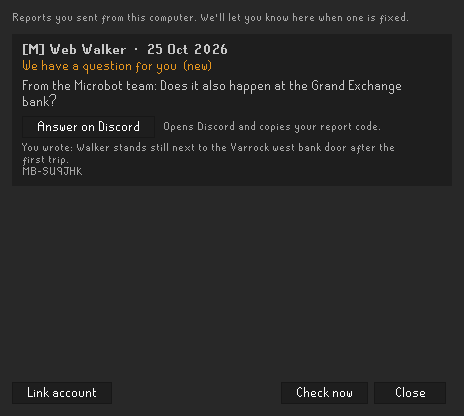
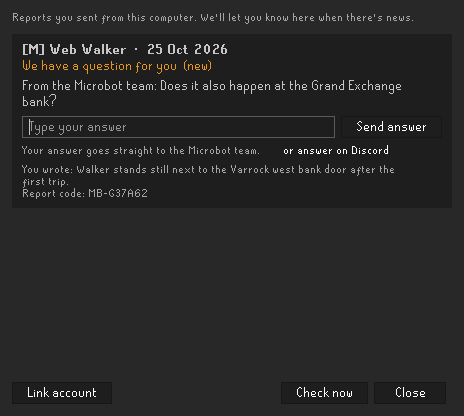
docs: fix 2.6.42 release notes screenshots and sent-data wording
Replace the My reports question and report form screenshots with
captures that match the shipped dialogs (answer field, Send answer,
"Microbot version and system details (always)"), using the same report
as the answered screenshot. Spell out the always-included system
details and say the GE Flipper tests were updated for the 2.6.41 client.

Claude-Session: https://claude.ai/code/session_01Vk6XpfG37ft2zYdVFHrG3s

diff --git a/releases/2.6.42.html b/releases/2.6.42.html
@@ -158,7 +158,7 @@
 <li>Click the <img alt="" class="rn-sprite rn-inline-icon" src="../images/releases/2.6.42/bug-report.png"/>red bug button in the sidebar and choose <strong>Report a problem...</strong> You can also click the grey bug in the plugin's settings header, or right-click the plugin's name.</li>
 <li>Web Walker is already picked in the <strong>Plugin</strong> box.</li>
 <li>Under <strong>What went wrong?</strong>, write what you were doing and what happened, for example "Walker stands still next to the Varrock west bank door after the first trip."</li>
-<li>Under <strong>Include</strong>, choose what to send along: the recent log and errors, the plugin's settings, your game state (location, inventory and gear) and, if you want, a screenshot of the game. Your client and plugin versions are always included.</li>
+<li>Under <strong>Include</strong>, choose what to send along: the recent log and errors, the plugin's settings, your game state (location, inventory and gear) and, if you want, a screenshot of the game. Microbot version and system details are always included: the Microbot, RuneLite, Java and OS versions, your installed plugins and your walker settings.</li>
 <li>Click <strong>See what's sent</strong> to check exactly what goes out, then press <strong>Send</strong>.</li>
 </ol>
 <div class="rn-gallery">
@@ -171,12 +171,12 @@
 <figure class="rn-figure"><img alt="Thanks, we've got your report, with a report code and Copy, Open Discord and Close buttons" loading="lazy" src="../images/releases/2.6.42/report-sent.png"/><figcaption>Your report is in. Microbot lets you know when there's news.</figcaption></figure>
 <h3>Hear back when it's fixed</h3>
 <p>When the problem is fixed, Microbot tells you in the client. It names the version with the fix and tells you what to do: update the plugin in the Microbot Hub, or restart Microbot from the launcher. An orange dot appears on the bug button, so you see it even if you were busy when the news arrived.</p>
-<p>Choose <strong>My reports</strong> in the bug button menu to see every report you sent from this computer and where it stands. If the team needs more from you, for example whether the walker also stops at the Grand Exchange bank, the question shows up there and you can answer it.</p>
-<figure class="rn-figure"><img alt="My reports showing a Web Walker report with a question from the Microbot team" loading="lazy" src="../images/releases/2.6.42/my-reports-question.png"/><figcaption>The team has a question about your Web Walker report.</figcaption></figure>
+<p>Choose <strong>My reports</strong> in the bug button menu to see every report you sent from this computer and where it stands. If the team needs more from you, for example whether the walker also stops at the Grand Exchange bank, the question shows up there. Type your answer and click <strong>Send answer</strong>, or answer on Discord if you prefer.</p>
+<figure class="rn-figure"><img alt="My reports showing a Web Walker report with a question from the Microbot team, a Type your answer box and a Send answer button" loading="lazy" src="../images/releases/2.6.42/my-reports-question.png"/><figcaption>The team has a question about your Web Walker report.</figcaption></figure>
 <figure class="rn-figure"><img alt="My reports showing the same report, now marked Being looked at, with your answer below the question" loading="lazy" src="../images/releases/2.6.42/my-reports-answered.png"/><figcaption>After you answer, the report shows it's being looked at.</figcaption></figure>
 <div class="rn-note">
 <span class="rn-note-title">What gets sent</span>
-<p>Only what you tick, plus your client and plugin versions. Your password and login details are never sent, and names are removed from the text. A screenshot shows whatever is on your screen, including your chat and name, so leave it unticked if you'd rather not share that. If you turned telemetry off, reporting respects that.</p>
+<p>Only what you tick, plus Microbot version and system details (the Microbot, RuneLite, Java and OS versions, your installed plugins and walker settings). Your password and login details are never sent, and names are removed from the text. A screenshot shows whatever is on your screen, including your chat and name, so leave it unticked if you'd rather not share that. If you turned telemetry off, reporting respects that.</p>
 </div>
 <p><img alt="" class="rn-sprite rn-inline-icon" src="../images/releases/2.6.42/cloud-sync.png"/>Turned telemetry off and want it back on? You can now turn it on again from the <strong>Microbot Cloud</strong> panel.</p>
 <h2 id="login">Login and world hopping</h2>
@@ -225,7 +225,7 @@
 <li>Menu clicks, errors, var changes, tile collision and the reason a walk stopped.</li>
 <li>An endpoint list, pause and resume, a request trace, an instance id, and socket and token fixes.</li>
 </ul>
-<p>The build now fails loudly if you ask for <code>:client:test</code>, and the Hub's GE Flipper tests were updated for clients 2.6.41 and 2.6.42.</p>
+<p>The build now fails loudly if you ask for <code>:client:test</code>, and the Hub's GE Flipper tests were updated for the 2.6.41 client.</p>
 <h2 id="update">How to update</h2>
 <p>Restart Microbot to get client 2.6.42. Clue Solver 1.0.10 shows up in the Microbot Hub panel inside the client. Something not working? Use <strong>Report a problem...</strong> in the red bug button, and we'll let you know when it's fixed.</p>
 <p class="rn-credit">Game images © Jagex Ltd., via the <a href="https://oldschool.runescape.wiki" rel="noopener" target="_blank">Old School RuneScape Wiki</a>.</p>
